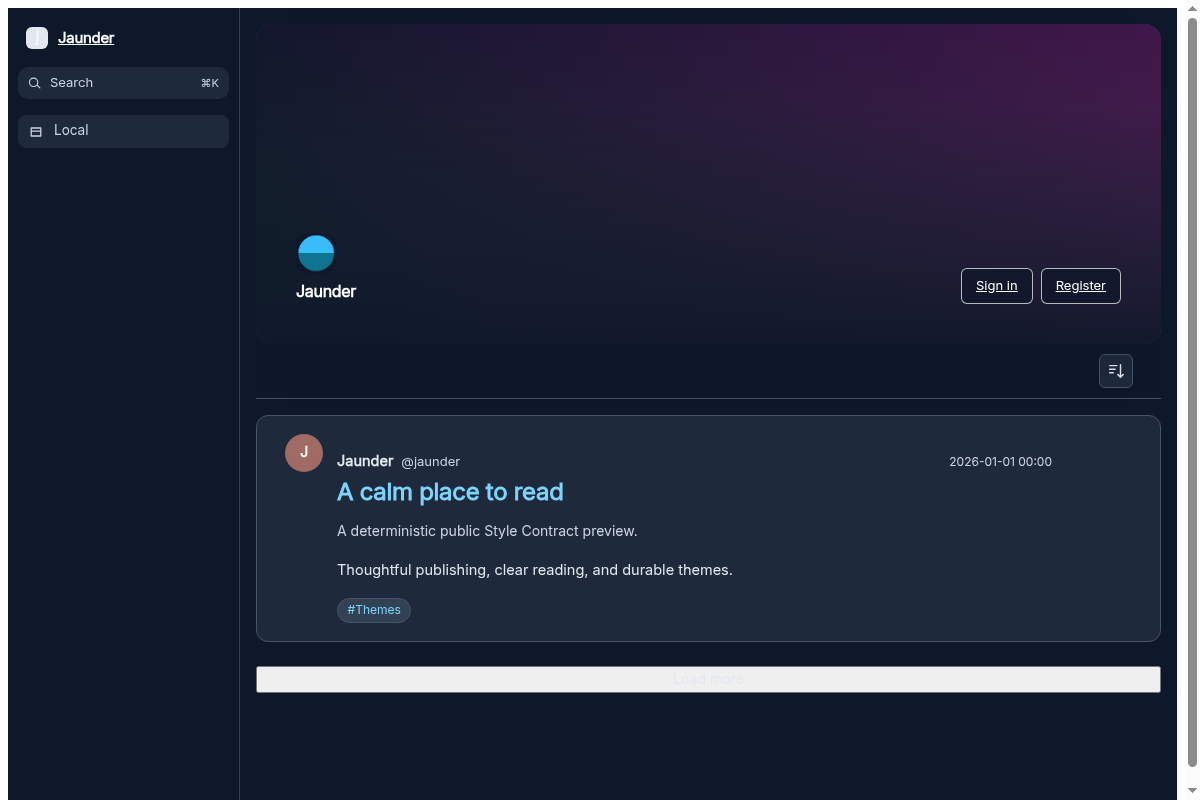
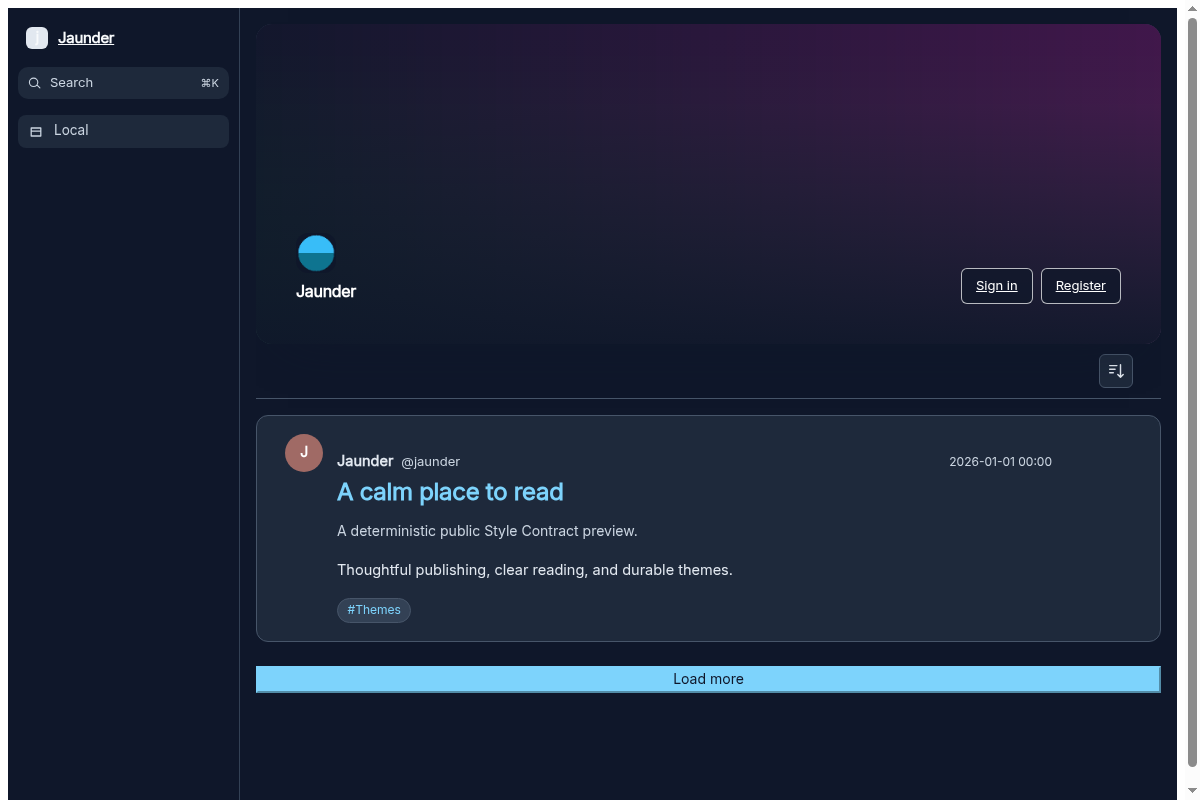
fix: style continuation control in dark mode

Changed region(s): [[0.2158, 0.8125, 0.9867, 0.875]]

diff --git a/style.css b/style.css
@@ -1,1 +1,1 @@
-@font-face{font-family:Tailwind Theme Inter;src:url(assets/inter-latin-regular.woff2)format("woff2");font-weight:400;font-style:normal;font-display:swap}:root{color:#1e293b;background:#f8fafc;min-height:100%;font-family:Tailwind Theme Inter,ui-sans-serif,system-ui,sans-serif}[data-jaunder-part=author-handle]{color:#475569}[data-jaunder-part=author-name]{font-weight:600}[data-jaunder-part=avatar]{border-radius:9999px}[data-jaunder-part=header-image]{z-index:0;object-fit:cover;width:100%;height:100%;margin:0;position:absolute;inset:0}[data-jaunder-part=hero]{isolation:isolate;background:#334155;border-radius:1rem;min-height:clamp(14rem,30vw,20rem);display:flex;position:relative;overflow:hidden;box-shadow:0 1.5rem 3rem -2rem #0f172a99}[data-jaunder-part=logo]{border-radius:.75rem;width:2.5rem;height:2.5rem}[data-jaunder-part=main],[data-jaunder-part=main] *{font-family:Tailwind Theme Inter,ui-sans-serif,system-ui,sans-serif}[data-jaunder-part=main]{width:min(64rem,100% - 2rem);margin-inline:auto;padding-block:1rem 3rem}[data-jaunder-part=masthead]{z-index:1;width:100%;min-height:inherit;color:#fff;box-shadow:none;background:linear-gradient(#0f172a1a 25%,#0f172aeb);border:0;border-radius:0;align-items:flex-end;margin:0;padding:clamp(1rem,4vw,2.5rem);position:relative}[data-jaunder-part=masthead] *{color:inherit}[data-jaunder-part=masthead] a{background:#0f172ab8;border-color:#ffffffb3}[data-jaunder-part=masthead] :focus-visible{outline-offset:3px;outline:3px solid #0284c7}[data-jaunder-part=navigation-rail],[data-jaunder-part=navigation-rail] *{font-family:Tailwind Theme Inter,ui-sans-serif,system-ui,sans-serif}[data-jaunder-part=navigation-rail]{color:#334155;background:#f8fafc;border-color:#cbd5e1}[data-jaunder-part=navigation-rail] *{color:inherit}[data-jaunder-part=navigation-search]{background:#e2e8f0;border-color:#cbd5e1}[data-jaunder-part=post]{overflow-wrap:anywhere;background:#fff;border:1px solid #cbd5e1;border-radius:.75rem;min-width:0;box-shadow:0 1px 3px #0f172a1a}[data-jaunder-part=post] a{color:#0369a1;text-decoration:none}[data-jaunder-part=post] a:hover{color:#075985}[data-jaunder-part=post] :focus-visible{outline-offset:3px;outline:3px solid #0284c7}[data-jaunder-part=post-body]{line-height:1.75}[data-jaunder-part=post-body] a{text-underline-offset:.15em;text-decoration-line:underline;text-decoration-thickness:.125em}[data-jaunder-part=post-list]{gap:1.5rem;padding-block:1rem;display:grid}[data-jaunder-part=post-summary]{color:#334155}[data-jaunder-part=post-title]{overflow-wrap:anywhere;font-size:1.5rem;font-weight:700;line-height:1.25}[data-jaunder-part=primary-navigation]{width:auto;margin:0;padding:0}[data-jaunder-part=primary-navigation] a{color:#334155;border-radius:.5rem;text-decoration:none}[data-jaunder-part=primary-navigation] a:hover{color:#0f172a;background:#e2e8f0}[data-jaunder-part=primary-navigation] :focus-visible{outline-offset:3px;outline:3px solid #0284c7}[data-jaunder-part=published-time]{color:#475569}[data-jaunder-part=site-brand]{color:#0f172a}[data-jaunder-part=site-title]{letter-spacing:-.025em;font-weight:700}[data-jaunder-part=source-attribution]{color:#475569}[data-jaunder-part=tag]{background:#e0f2fe;border-radius:9999px;padding:.2rem .6rem}[data-jaunder-part=tag-list]{flex-wrap:wrap;gap:.5rem;display:flex}[data-jaunder-part=tag-list] a{color:#0369a1;text-decoration:none}[data-jaunder-part=tag-list] a:hover{color:#075985}[data-jaunder-part=tag-list] :focus-visible{outline-offset:3px;outline:3px solid #0284c7}@media (max-width:44rem){[data-jaunder-part=hero]{border-radius:.75rem;min-height:13rem}[data-jaunder-part=main]{width:min(100% - 1rem,64rem);padding-block:.5rem 2rem}[data-jaunder-part=masthead]{align-items:flex-end;gap:.75rem}}@media (prefers-reduced-motion:reduce){:root{scroll-behavior:auto}[data-jaunder-part=masthead] *,[data-jaunder-part=post] *{transition-duration:.01ms;animation-duration:.01ms;animation-iteration-count:1}}@media (prefers-color-scheme:dark){:root{--ink:#e2e8f0;--line:#475569;--surface-alt:#1e293b;color:#e2e8f0;background:#0f172a}[data-jaunder-part=author-handle]{color:#cbd5e1}[data-jaunder-part=masthead] :focus-visible{outline-color:#fbbf24}[data-jaunder-part=navigation-rail]{color:#cbd5e1;background:#0f172a;border-color:#334155}[data-jaunder-part=navigation-search]{background:#1e293b;border-color:#475569}[data-jaunder-part=post]{box-shadow:none;background:#1e293b;border-color:#475569}[data-jaunder-part=post] a{color:#7dd3fc}[data-jaunder-part=post] a:hover{color:#bae6fd}[data-jaunder-part=post] :focus-visible{outline-color:#fbbf24}[data-jaunder-part=post-summary],[data-jaunder-part=primary-navigation] a{color:#cbd5e1}[data-jaunder-part=primary-navigation] a:hover{color:#fff;background:#1e293b}[data-jaunder-part=primary-navigation] :focus-visible{outline-color:#fbbf24}[data-jaunder-part=published-time]{color:#cbd5e1}[data-jaunder-part=site-brand]{color:#f8fafc}[data-jaunder-part=source-attribution]{color:#cbd5e1}[data-jaunder-part=tag]{background:#334155}[data-jaunder-part=tag-list] a{color:#7dd3fc}[data-jaunder-part=tag-list] a:hover{color:#bae6fd}[data-jaunder-part=tag-list] :focus-visible{outline-color:#fbbf24}}
+@font-face{font-family:Tailwind Theme Inter;src:url(assets/inter-latin-regular.woff2)format("woff2");font-weight:400;font-style:normal;font-display:swap}:root{color:#1e293b;background:#f8fafc;min-height:100%;font-family:Tailwind Theme Inter,ui-sans-serif,system-ui,sans-serif}[data-jaunder-part=author-handle]{color:#475569}[data-jaunder-part=author-name]{font-weight:600}[data-jaunder-part=avatar]{border-radius:9999px}[data-jaunder-part=continuation]{color:#fff;background:#0369a1;border-color:#0369a1}[data-jaunder-part=continuation]:hover{background:#075985;border-color:#075985}[data-jaunder-part=continuation]:focus-visible{outline-offset:3px;outline:3px solid #0284c7}[data-jaunder-part=header-image]{z-index:0;object-fit:cover;width:100%;height:100%;margin:0;position:absolute;inset:0}[data-jaunder-part=hero]{isolation:isolate;background:#334155;border-radius:1rem;min-height:clamp(14rem,30vw,20rem);display:flex;position:relative;overflow:hidden;box-shadow:0 1.5rem 3rem -2rem #0f172a99}[data-jaunder-part=logo]{border-radius:.75rem;width:2.5rem;height:2.5rem}[data-jaunder-part=main],[data-jaunder-part=main] *{font-family:Tailwind Theme Inter,ui-sans-serif,system-ui,sans-serif}[data-jaunder-part=main]{width:min(64rem,100% - 2rem);margin-inline:auto;padding-block:1rem 3rem}[data-jaunder-part=masthead]{z-index:1;width:100%;min-height:inherit;color:#fff;box-shadow:none;background:linear-gradient(#0f172a1a 25%,#0f172aeb);border:0;border-radius:0;align-items:flex-end;margin:0;padding:clamp(1rem,4vw,2.5rem);position:relative}[data-jaunder-part=masthead] *{color:inherit}[data-jaunder-part=masthead] a{background:#0f172ab8;border-color:#ffffffb3}[data-jaunder-part=masthead] :focus-visible{outline-offset:3px;outline:3px solid #0284c7}[data-jaunder-part=navigation-rail],[data-jaunder-part=navigation-rail] *{font-family:Tailwind Theme Inter,ui-sans-serif,system-ui,sans-serif}[data-jaunder-part=navigation-rail]{color:#334155;background:#f8fafc;border-color:#cbd5e1}[data-jaunder-part=navigation-rail] *{color:inherit}[data-jaunder-part=navigation-search]{background:#e2e8f0;border-color:#cbd5e1}[data-jaunder-part=post]{overflow-wrap:anywhere;background:#fff;border:1px solid #cbd5e1;border-radius:.75rem;min-width:0;box-shadow:0 1px 3px #0f172a1a}[data-jaunder-part=post] a{color:#0369a1;text-decoration:none}[data-jaunder-part=post] a:hover{color:#075985}[data-jaunder-part=post] :focus-visible{outline-offset:3px;outline:3px solid #0284c7}[data-jaunder-part=post-body]{line-height:1.75}[data-jaunder-part=post-body] a{text-underline-offset:.15em;text-decoration-line:underline;text-decoration-thickness:.125em}[data-jaunder-part=post-list]{gap:1.5rem;padding-block:1rem;display:grid}[data-jaunder-part=post-summary]{color:#334155}[data-jaunder-part=post-title]{overflow-wrap:anywhere;font-size:1.5rem;font-weight:700;line-height:1.25}[data-jaunder-part=primary-navigation]{width:auto;margin:0;padding:0}[data-jaunder-part=primary-navigation] a{color:#334155;border-radius:.5rem;text-decoration:none}[data-jaunder-part=primary-navigation] a:hover{color:#0f172a;background:#e2e8f0}[data-jaunder-part=primary-navigation] :focus-visible{outline-offset:3px;outline:3px solid #0284c7}[data-jaunder-part=published-time]{color:#475569}[data-jaunder-part=site-brand]{color:#0f172a}[data-jaunder-part=site-title]{letter-spacing:-.025em;font-weight:700}[data-jaunder-part=source-attribution]{color:#475569}[data-jaunder-part=tag]{background:#e0f2fe;border-radius:9999px;padding:.2rem .6rem}[data-jaunder-part=tag-list]{flex-wrap:wrap;gap:.5rem;display:flex}[data-jaunder-part=tag-list] a{color:#0369a1;text-decoration:none}[data-jaunder-part=tag-list] a:hover{color:#075985}[data-jaunder-part=tag-list] :focus-visible{outline-offset:3px;outline:3px solid #0284c7}@media (max-width:44rem){[data-jaunder-part=hero]{border-radius:.75rem;min-height:13rem}[data-jaunder-part=main]{width:min(100% - 1rem,64rem);padding-block:.5rem 2rem}[data-jaunder-part=masthead]{align-items:flex-end;gap:.75rem}}@media (prefers-reduced-motion:reduce){:root{scroll-behavior:auto}[data-jaunder-part=masthead] *,[data-jaunder-part=post] *{transition-duration:.01ms;animation-duration:.01ms;animation-iteration-count:1}}@media (prefers-color-scheme:dark){:root{--ink:#e2e8f0;--line:#475569;--surface-alt:#1e293b;color:#e2e8f0;background:#0f172a}[data-jaunder-part=author-handle]{color:#cbd5e1}[data-jaunder-part=continuation]{color:#0f172a;background:#7dd3fc;border-color:#7dd3fc}[data-jaunder-part=continuation]:hover{background:#bae6fd;border-color:#bae6fd}[data-jaunder-part=continuation]:focus-visible,[data-jaunder-part=masthead] :focus-visible{outline-color:#fbbf24}[data-jaunder-part=navigation-rail]{color:#cbd5e1;background:#0f172a;border-color:#334155}[data-jaunder-part=navigation-search]{background:#1e293b;border-color:#475569}[data-jaunder-part=post]{box-shadow:none;background:#1e293b;border-color:#475569}[data-jaunder-part=post] a{color:#7dd3fc}[data-jaunder-part=post] a:hover{color:#bae6fd}[data-jaunder-part=post] :focus-visible{outline-color:#fbbf24}[data-jaunder-part=post-summary],[data-jaunder-part=primary-navigation] a{color:#cbd5e1}[data-jaunder-part=primary-navigation] a:hover{color:#fff;background:#1e293b}[data-jaunder-part=primary-navigation] :focus-visible{outline-color:#fbbf24}[data-jaunder-part=published-time]{color:#cbd5e1}[data-jaunder-part=site-brand]{color:#f8fafc}[data-jaunder-part=source-attribution]{color:#cbd5e1}[data-jaunder-part=tag]{background:#334155}[data-jaunder-part=tag-list] a{color:#7dd3fc}[data-jaunder-part=tag-list] a:hover{color:#bae6fd}[data-jaunder-part=tag-list] :focus-visible{outline-color:#fbbf24}}

diff --git a/src/theme.css b/src/theme.css
@@ -35,6 +35,23 @@
   border-radius: 9999px;
 }
 
+/* continuation */
+[data-jaunder-part="continuation"] {
+  color: #fff;
+  background: #0369a1;
+  border-color: #0369a1;
+}
+
+[data-jaunder-part="continuation"]:hover {
+  background: #075985;
+  border-color: #075985;
+}
+
+[data-jaunder-part="continuation"]:focus-visible {
+  outline: 3px solid #0284c7;
+  outline-offset: 3px;
+}
+
 /* header-image */
 [data-jaunder-part="header-image"] {
   position: absolute;
@@ -315,6 +332,22 @@
   /* author-handle */
   [data-jaunder-part="author-handle"] {
     color: #cbd5e1;
+  }
+
+  /* continuation */
+  [data-jaunder-part="continuation"] {
+    color: #0f172a;
+    background: #7dd3fc;
+    border-color: #7dd3fc;
+  }
+
+  [data-jaunder-part="continuation"]:hover {
+    background: #bae6fd;
+    border-color: #bae6fd;
+  }
+
+  [data-jaunder-part="continuation"]:focus-visible {
+    outline-color: #fbbf24;
   }
 
   /* masthead */

diff --git a/README.md b/README.md
@@ -74,6 +74,7 @@ npm ci --ignore-scripts
 ./node_modules/.bin/tailwindcss --input src/theme.css --output style.css --minify
 node scripts/check-drift.mjs
 node scripts/check-dark-divider-contract.mjs
+node scripts/check-continuation-contract.mjs
 "$JAUNDER_BIN" theme check .
 "$JAUNDER_BIN" theme thumbnail . --browser "$JAUNDER_THEME_THUMBNAIL_BROWSER" --output preview.png
 ./scripts/generate-dark-preview.sh
